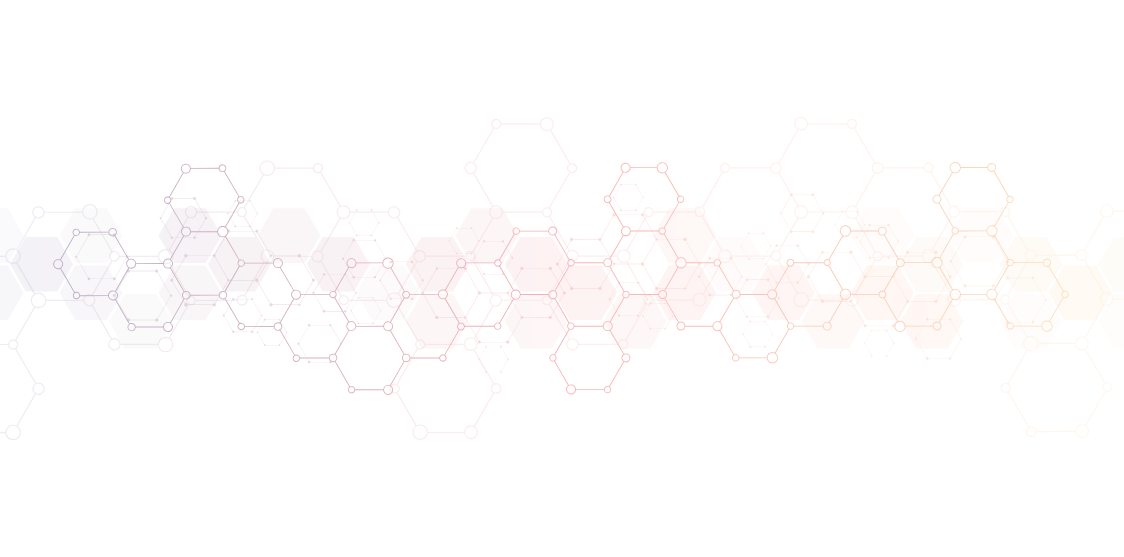
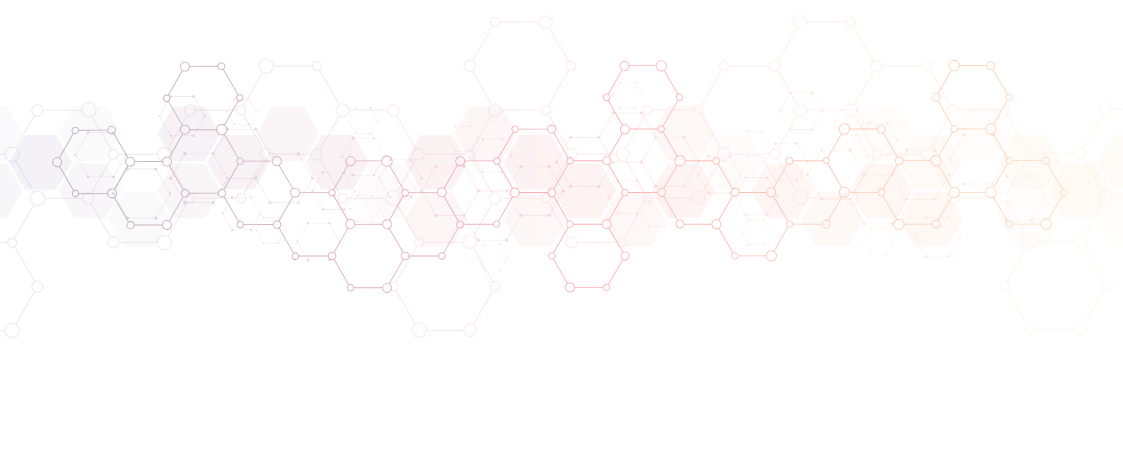
changed bg, fixed a few quirks

diff --git a/src/App.css b/src/App.css
@@ -5,28 +5,54 @@
 body {
   background: url('./assets/images/background.png') no-repeat;
   background-size: 1200px;
-  background-position: 0% 100%; 
+  background-position: 0% 0%; 
   background-attachment: fixed;
   color: rgb(9, 8, 46);
   font-family: Quicksand;
   overflow-x: hidden;
 
-  /* the animation from animista, see below */
-  /* -webkit-animation: color-change-bg linear 5s;
-          animation: color-change-bg linear 5s; */
 }
 
-/* if you want an overlay at some point... */
-/* .app-page {
-  z-index: 0;
-  position: absolute;
-  top: 0;
-  left: 0;
+/* for the hexagon image - thanks http://jsfiddle.net/kizu/bhGn4/ */
+.hexagon {
+  overflow: hidden;
+  visibility: hidden;
+  -webkit-transform: rotate(120deg);
+     -moz-transform: rotate(120deg);
+      -ms-transform: rotate(120deg);
+       -o-transform: rotate(120deg);
+          transform: rotate(120deg);
+  cursor: pointer;
+}
+.hexagon-in1 {
+  overflow: hidden;
   width: 100%;
   height: 100%;
-  background-color: white;
-  opacity: 0.8;
-} */
+  -webkit-transform: rotate(-60deg);
+     -moz-transform: rotate(-60deg);
+      -ms-transform: rotate(-60deg);
+       -o-transform: rotate(-60deg);
+          transform: rotate(-60deg);
+}
+.hexagon-in2 {
+  width: 100%;
+  height: 100%;
+  background-repeat: no-repeat;
+  background-position: 50%;
+  background-size: 150px;
+  background-image: url(./assets/images/profile-pic.jpg);
+  visibility: visible;
+  -webkit-transform: rotate(-60deg);
+     -moz-transform: rotate(-60deg);
+      -ms-transform: rotate(-60deg);
+       -o-transform: rotate(-60deg);
+          transform: rotate(-60deg);
+  }
+.hexagon1 {
+  width: 300px;
+  height: 150px;
+  /* margin: 0 0 0 -80px; */
+}
 
 hr {
   border: 0;
@@ -80,17 +106,15 @@ a:hover, a:focus, a:active {
   font-size: calc(16px + 2vmin);
 }
 
-/* for the background changing color on startup*/
 
-.home-page-content {
-   /* the animation from animista, see below */
-  /* -webkit-animation: color-change-text linear 5s;
-	        animation: color-change-text linear 5s; */
-}
 /* ----------------------------------------------
- * Generated by Animista on 2019-2-18 9:28:2
- * w: http://animista.net, t: @cssanimista
- * ---------------------------------------------- */
+/* for the background changing color on startup*/
+/* .home-page-content {
+
+} */
+
+ /* * Generated by Animista on 2019-2-18 9:28:2
+ * w: http://animista.net, t: @cssanimista */
 
 /**
  * ----------------------------------------

diff --git a/src/components/pages/AboutPage.js b/src/components/pages/AboutPage.js
@@ -189,7 +189,11 @@ const styles = {
     paddingTop: '0',
     paddingBottom: 80,
     width: '90%',
-    margin: 'auto auto'
+    margin: 'auto auto',
+    display: 'flex',
+    flexDirection: 'column',
+    justifyContent: 'flex-start',
+    alignItems: 'center',
   },
   title: {
     // width: '80%',
@@ -204,7 +208,8 @@ const styles = {
   },
 
   textContainer: {
-    backgroundColor: 'rgba(255,255,255,0.8)',
+    maxWidth: '700px',
+    backgroundColor: 'rgba(255,255,255,0.5)',
     display: 'flex',
     flexDirection: 'column',
     justifyContent: 'flex-start',
@@ -214,7 +219,6 @@ const styles = {
   },
   skillsContainer: {
     width:'100%',
-    // border: '1px solid',
     display: 'flex',
     flexDirection: 'row',
     justifyContent: 'space-evenly',
@@ -222,13 +226,13 @@ const styles = {
     // margin: 30
   },
   skillTitle: {
-    fontSize: 'calc(16px + 0.5vw)',
+    fontSize: 22,
     paddingLeft: 10,
     fontWeight: 'bold'
   },
   paragraph: {
     // paddingTop: 10,
-    fontSize: 16,
+    fontSize: 18,
     width: '100%'
   },
   image: {
@@ -240,6 +244,8 @@ const styles = {
     /* background-color: #CC6666; */
     display: 'flex',
     flexDirection: 'row',
+    justifyContent: 'center',
+    alignItems: 'center',
     width: 250,
     margin: 'auto auto 15px auto'
   },

diff --git a/src/components/pages/HomePage.js b/src/components/pages/HomePage.js
@@ -26,7 +26,6 @@ const initialState = {
   bioBackground: false,
   devBackground: false,
   textColor: 'black',
-  fontWeight: 600,
   contentBackground: 'none',
   boxShadow: 'none'
 }
@@ -139,7 +138,7 @@ class HomePage extends Component {
           </Div>
 
           <Div className="row" style={styles.description}>
-            <P className="col">I love creating & developing full stack web & mobile apps.</P>
+            <P className="col">I'm a career scientist, but what I really love is creating & developing web & mobile apps.</P>
           </Div>
         </Div>
 
@@ -160,7 +159,7 @@ const styles = {
     margin: 'auto auto',
   },
   name: {
-    fontSize: 30,
+    fontSize: 34,
     margin: '4vh 0vh'
   },
   iconHolder: {
@@ -168,8 +167,8 @@ const styles = {
     // margin: 'auto auto'
   },
   icontext: {
-    fontSize: 18,
-    fontWeight: 'lighter'
+    fontSize: 20,
+    // fontWeight: 'lighter'
   },
   icon: {
     fontWeight: 'bolder',

diff --git a/src/components/pages/ContactPage.js b/src/components/pages/ContactPage.js
@@ -48,11 +48,11 @@ class ContactPage extends Component {
     return (
       <Container className="container" style={styles.main}>
         
-        <P className="" style={styles.title}>
+        <P className="col" style={styles.title}>
           Contact Me
         </P>
         <Hr/>
-        <P className="" style={styles.subTitle}>
+        <P className="col" style={styles.subTitle}>
           Get in touch with me to discuss anything at all.
         </P>
         <Div style={styles.textContainer}>
@@ -124,9 +124,10 @@ const styles = {
     width: '80%',
     textAlign: 'left',
     fontSize: 'calc(18px + 1vw)',
-    
+    margin: 25
   },
   textContainer: {
+    backgroundColor: 'rgba(255,255,255,0.5)',
     width: '80%',
     display: 'flex',
     flexDirection: 'column',

diff --git a/src/components/elements/Navigator.js b/src/components/elements/Navigator.js
@@ -143,11 +143,10 @@ const styles = {
   },
   dropDownLink: {
     fontSize: 'calc(16px + 0.5vw)',
-    fontWeight: 600,
     textDecoration: 'none'
   },
   dropDownIcon: {
-    fontSize: 'calc(34px + 0.5vw)',
+    fontSize: 'calc(24px + 0.5vw)',
     
   }
 

diff --git a/src/App.js b/src/App.js
@@ -20,7 +20,7 @@ import Navigator from './components/elements/Navigator';
 const RoutesContainer = posed.div({
   enter: {
     opacity: 1,
-    delay: 300,
+    // delay: 300,
     beforeChildren: true
   },
   exit: { opacity: 0 }

diff --git a/src/components/pages/PortfolioPage.js b/src/components/pages/PortfolioPage.js
@@ -159,7 +159,6 @@ const styles = {
   subTitle: {
     width: '80%',
     fontSize: 'calc(16px + 1vw)',
-    textAlign: 'left',
     margin: 25
   },
   skillTitle: {
